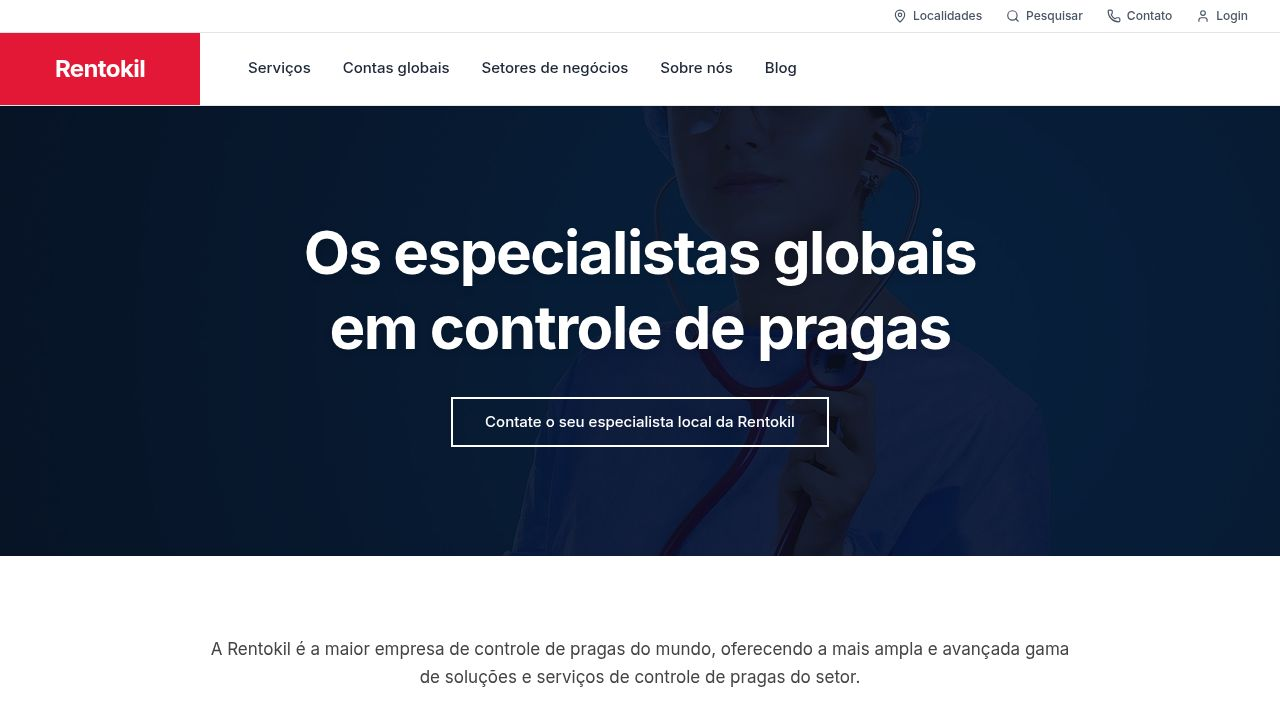
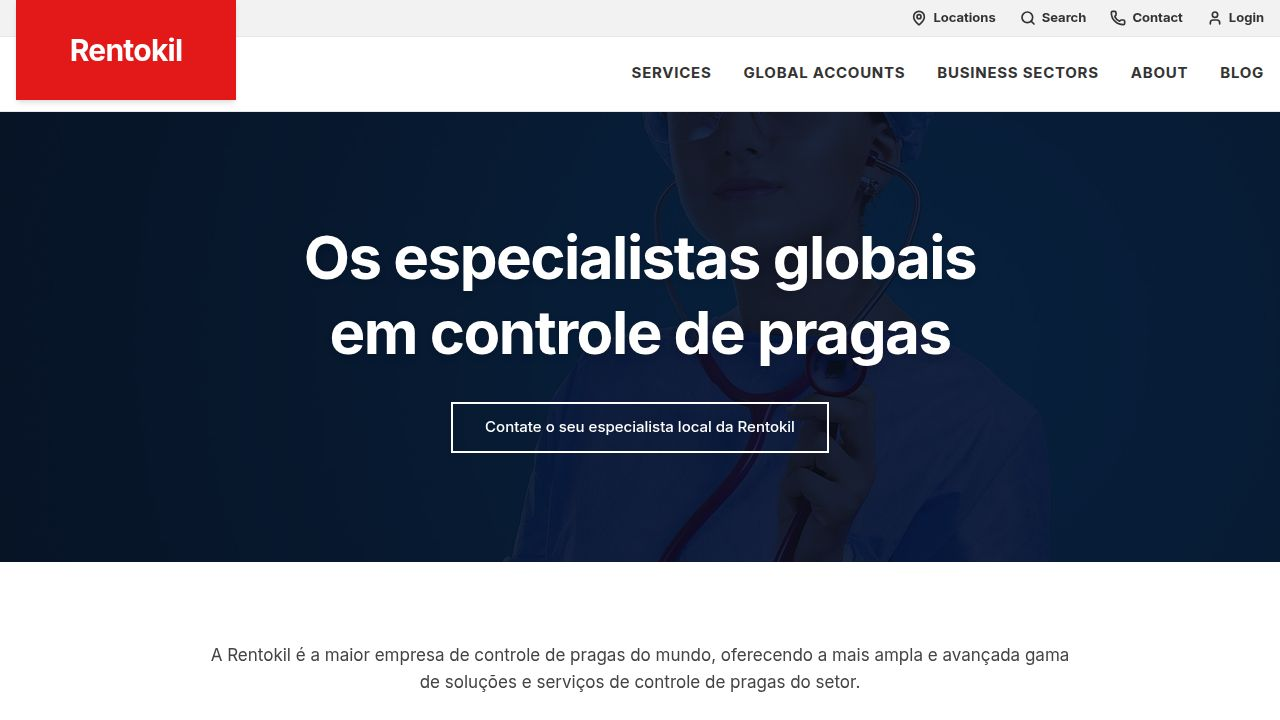
Adjust header layout and styling to match design mockups
Refactors the Header component's JSX and CSS to ensure the logo has correct spacing and the utility and navigation bars fill the full width with centered content, aligning with design specifications.

Replit-Commit-Author: Agent
Replit-Commit-Session-Id: 1410c336-96c2-48b8-8093-b2f212a9e839
Replit-Commit-Checkpoint-Type: full_checkpoint
Replit-Commit-Event-Id: 746dd906-a6ec-49bd-8393-e5a8da67c2e0
Replit-Commit-Screenshot-Url: https://storage.googleapis.com/screenshot-production-us-central1/86861b19-07a4-4871-bdb8-fb8f0c8f0ee6/1410c336-96c2-48b8-8093-b2f212a9e839/INbPyJL
Replit-Helium-Checkpoint-Created: true

diff --git a/client/src/components/layout/Header.tsx b/client/src/components/layout/Header.tsx
@@ -4,20 +4,18 @@ import { Button } from "@/components/ui/button";
 export default function Header() {
   return (
     <header className="w-full flex flex-col relative z-50">
-      {/* Container that wraps everything to allow the logo to overlap */}
-      <div className="container mx-auto px-4 relative">
-        
-        {/* Logo - Red Background Block - Positioned to overlap both bars */}
-        <div 
-          className="absolute top-0 left-4 bg-[#e31818] flex items-center justify-center px-8 z-50 w-[220px] h-[115px] shadow-md"
-          data-testid="text-logo-container"
-        >
-          <span className="text-white font-bold text-3xl tracking-tight" data-testid="text-logo">Rentokil</span>
-        </div>
+      {/* Top utility bar - gray background - Full width wrapper */}
+      <div className="w-full bg-[#f2f2f2] border-b border-gray-200">
+        <div className="container mx-auto px-4 relative">
+          {/* Logo - Red Background Block - Positioned to overlap both bars */}
+          <div 
+            className="absolute top-0 left-4 bg-[#e31818] flex items-center justify-center px-8 z-50 w-[220px] h-[100px] shadow-md"
+            data-testid="text-logo-container"
+          >
+            <span className="text-white font-bold text-3xl tracking-tight" data-testid="text-logo">Rentokil</span>
+          </div>
 
-        {/* Top utility bar - gray background */}
-        <div className="w-full bg-[#f2f2f2] border-b border-gray-200 ml-0">
-          <div className="flex justify-end py-2 text-[13px] font-bold text-[#333333] pr-4">
+          <div className="flex justify-end py-2 text-[13px] font-bold text-[#333333]">
             <div className="flex items-center space-x-6">
               <a href="#" className="flex items-center hover:text-[#e31818] transition-colors" data-testid="link-locations">
                 <MapPin className="w-4 h-4 mr-1.5" strokeWidth={2.5} />
@@ -38,12 +36,14 @@ export default function Header() {
             </div>
           </div>
         </div>
+      </div>
 
-        {/* Main navigation - white background */}
-        <div className="w-full bg-white border-b border-gray-200 relative h-[75px]">
+      {/* Main navigation - white background - Full width wrapper */}
+      <div className="w-full bg-white border-b border-gray-200 relative h-[75px]">
+        <div className="container mx-auto px-4 h-full">
           <div className="flex items-center h-full">
             {/* Desktop Navigation - Pushed to the right with margin to clear the logo */}
-            <nav className="hidden lg:flex items-center ml-auto space-x-8 text-[15px] font-extrabold text-[#333333] pr-4">
+            <nav className="hidden lg:flex items-center ml-auto space-x-8 text-[15px] font-extrabold text-[#333333]">
               <a href="#" className="hover:text-[#e31818] transition-colors uppercase tracking-wider" data-testid="nav-services">Services</a>
               <a href="#" className="hover:text-[#e31818] transition-colors uppercase tracking-wider" data-testid="nav-global">Global accounts</a>
               <a href="#" className="hover:text-[#e31818] transition-colors uppercase tracking-wider" data-testid="nav-sectors">Business sectors</a>
@@ -52,7 +52,7 @@ export default function Header() {
             </nav>
 
             {/* Mobile Menu Button */}
-            <div className="ml-auto lg:hidden flex items-center pr-4">
+            <div className="ml-auto lg:hidden flex items-center">
               <Button variant="ghost" size="icon" className="text-[#333333]" data-testid="button-mobile-menu">
                 <Menu className="w-8 h-8" />
               </Button>
